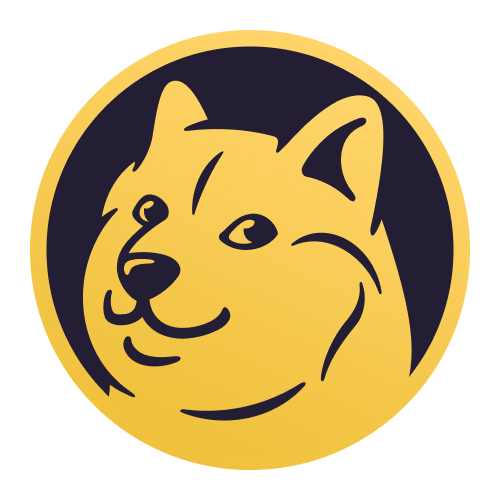
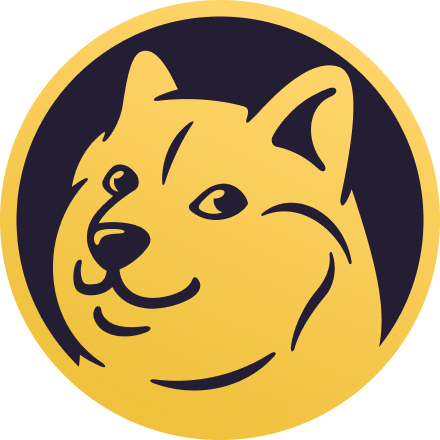
feat: update image size and code style

diff --git a/app/src/sections/Community/CommunityIntroduction/styles.css b/app/src/sections/Community/CommunityIntroduction/styles.css
@@ -12,8 +12,8 @@
 }
 
 @media (min-width: 768px) {
-  .community-thumbnail > img {
-    max-width: 200px;
+  .community-image > img {
+    max-width: 440px;
   }
 }
 
@@ -24,10 +24,6 @@
     align-items: center;
     justify-content: space-between;
     text-align: start;
-  }
-
-  .community-image > img {
-    max-width: 500px;
   }
 
   .community-description {
